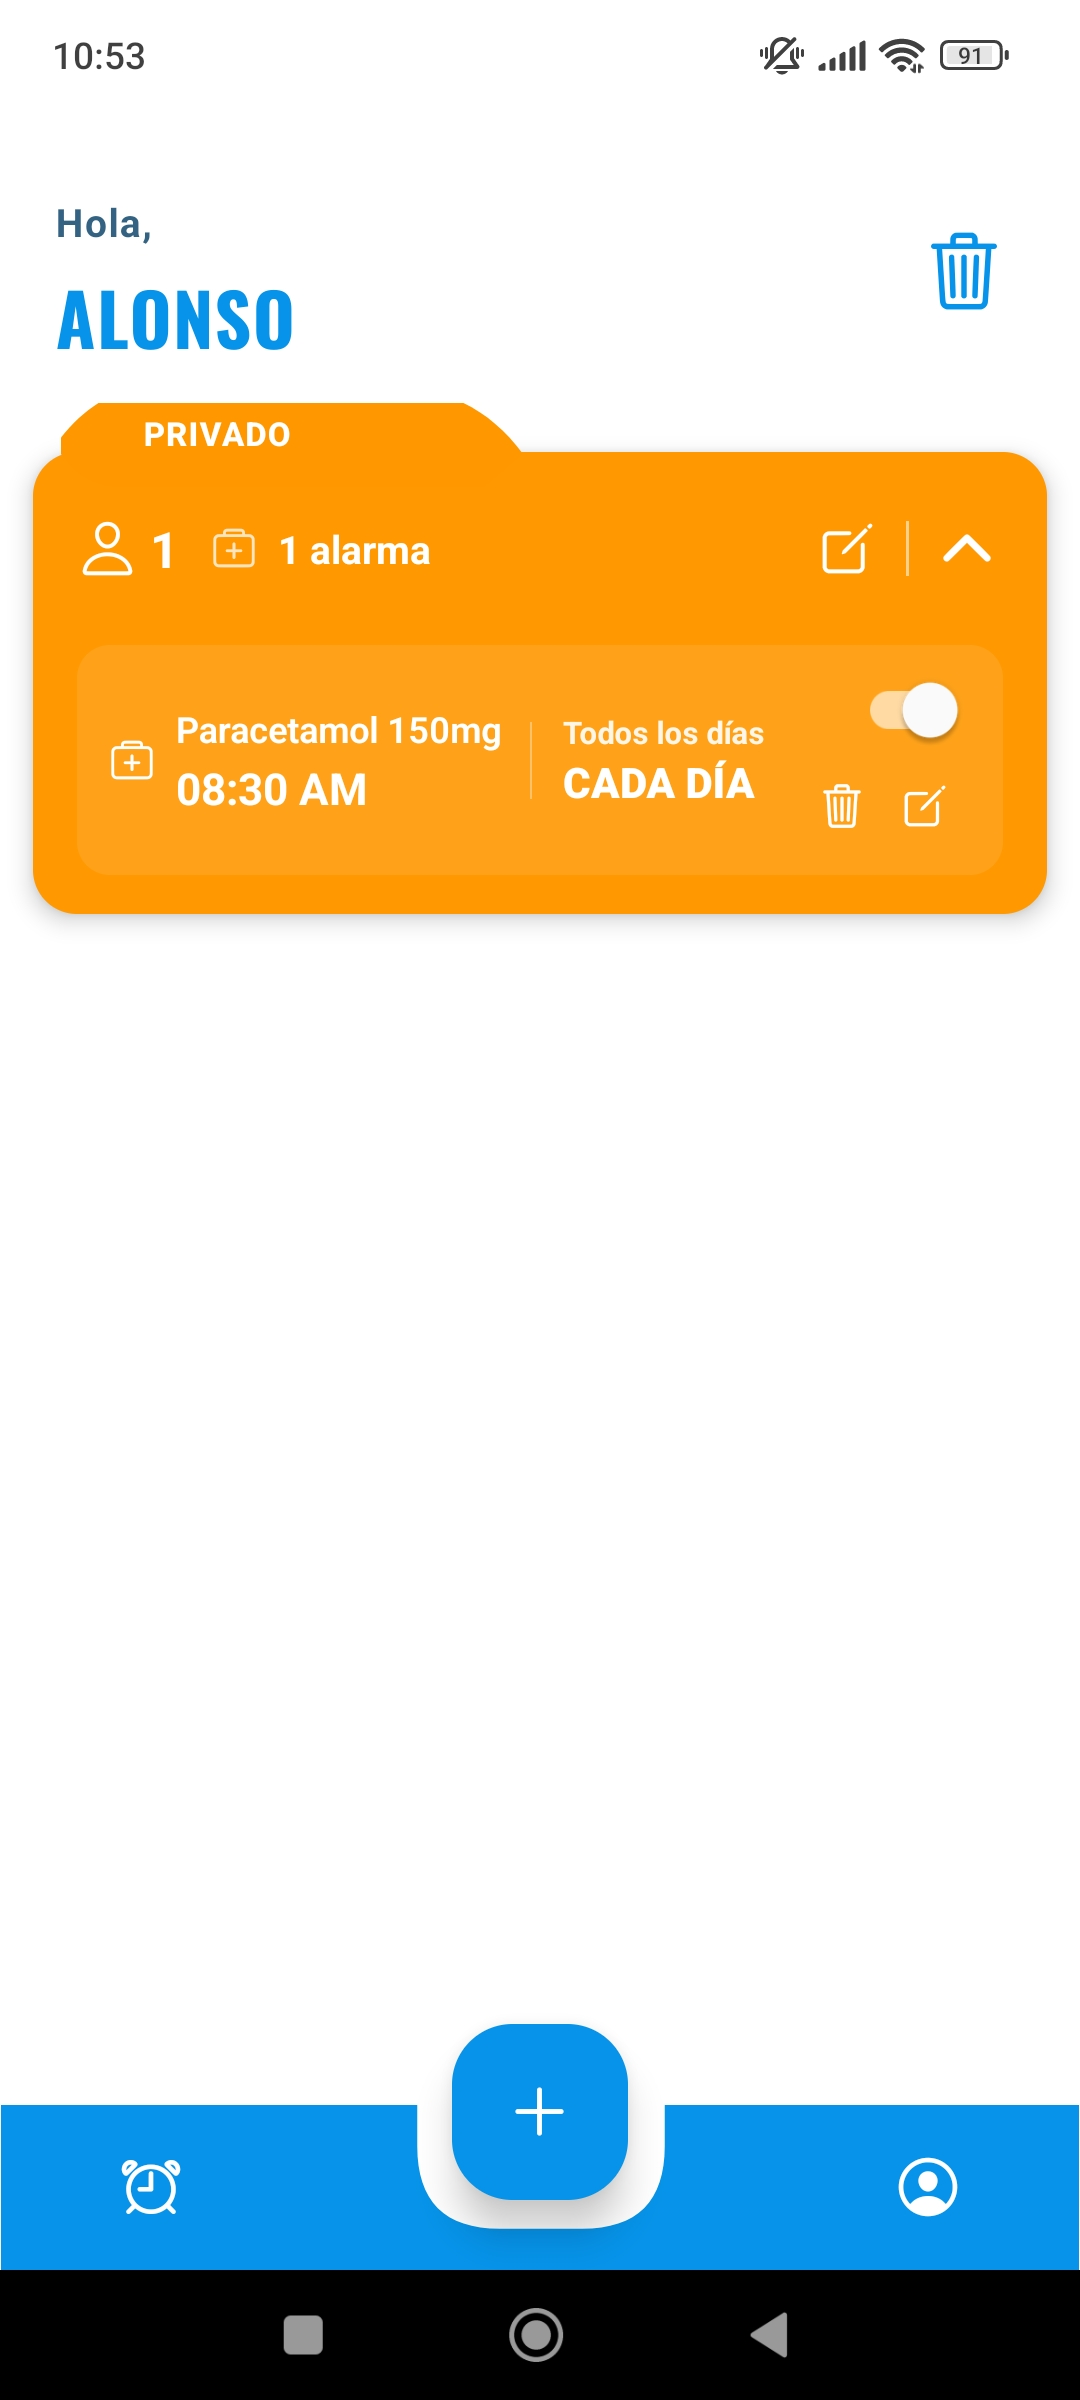
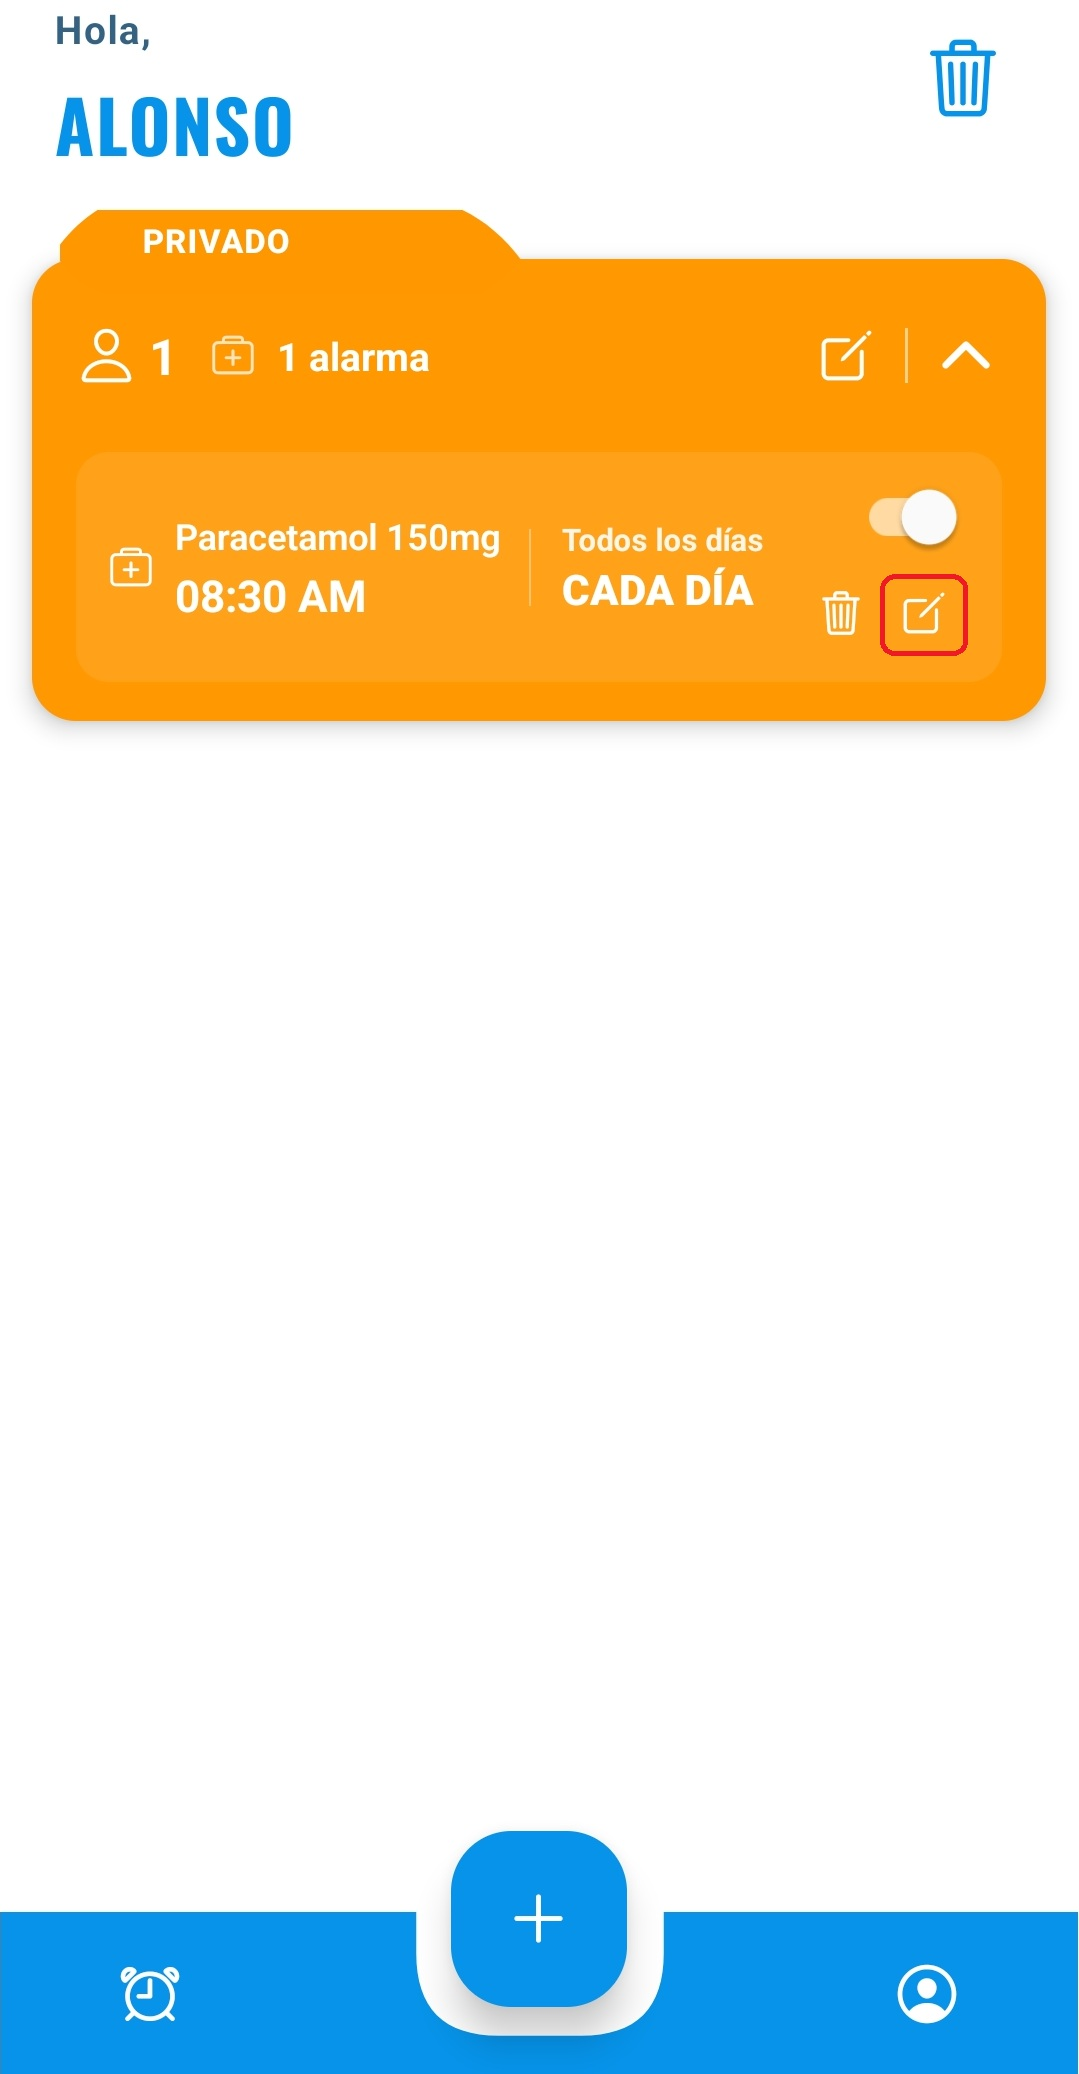
Actualizacion centro de ayuda

Changed region(s): [[0.0, 0.0, 0.9787, 0.4012], [0.0, 0.8332, 1.0, 1.0], [0.7034, 0.0, 0.9481, 0.0617]]

diff --git a/Desarrollo/Frontend/app/(help)/helpItems.ts b/Desarrollo/Frontend/app/(help)/helpItems.ts
@@ -135,7 +135,7 @@ export const HELP_ITEMS: HelpItem[] = [
         image: require('../../assets/ImaAlarma/ua1.jpg'),
       },
       {
-        text: 'Rellenar los cambios a realizar y  presionar el botón "Confirmar".',
+        text: 'Rellenar los cambios a realizar y  presionar el botón "Guardar".',
         image: require('../../assets/ImaAlarma/ua2.jpg'),
       },
       {
